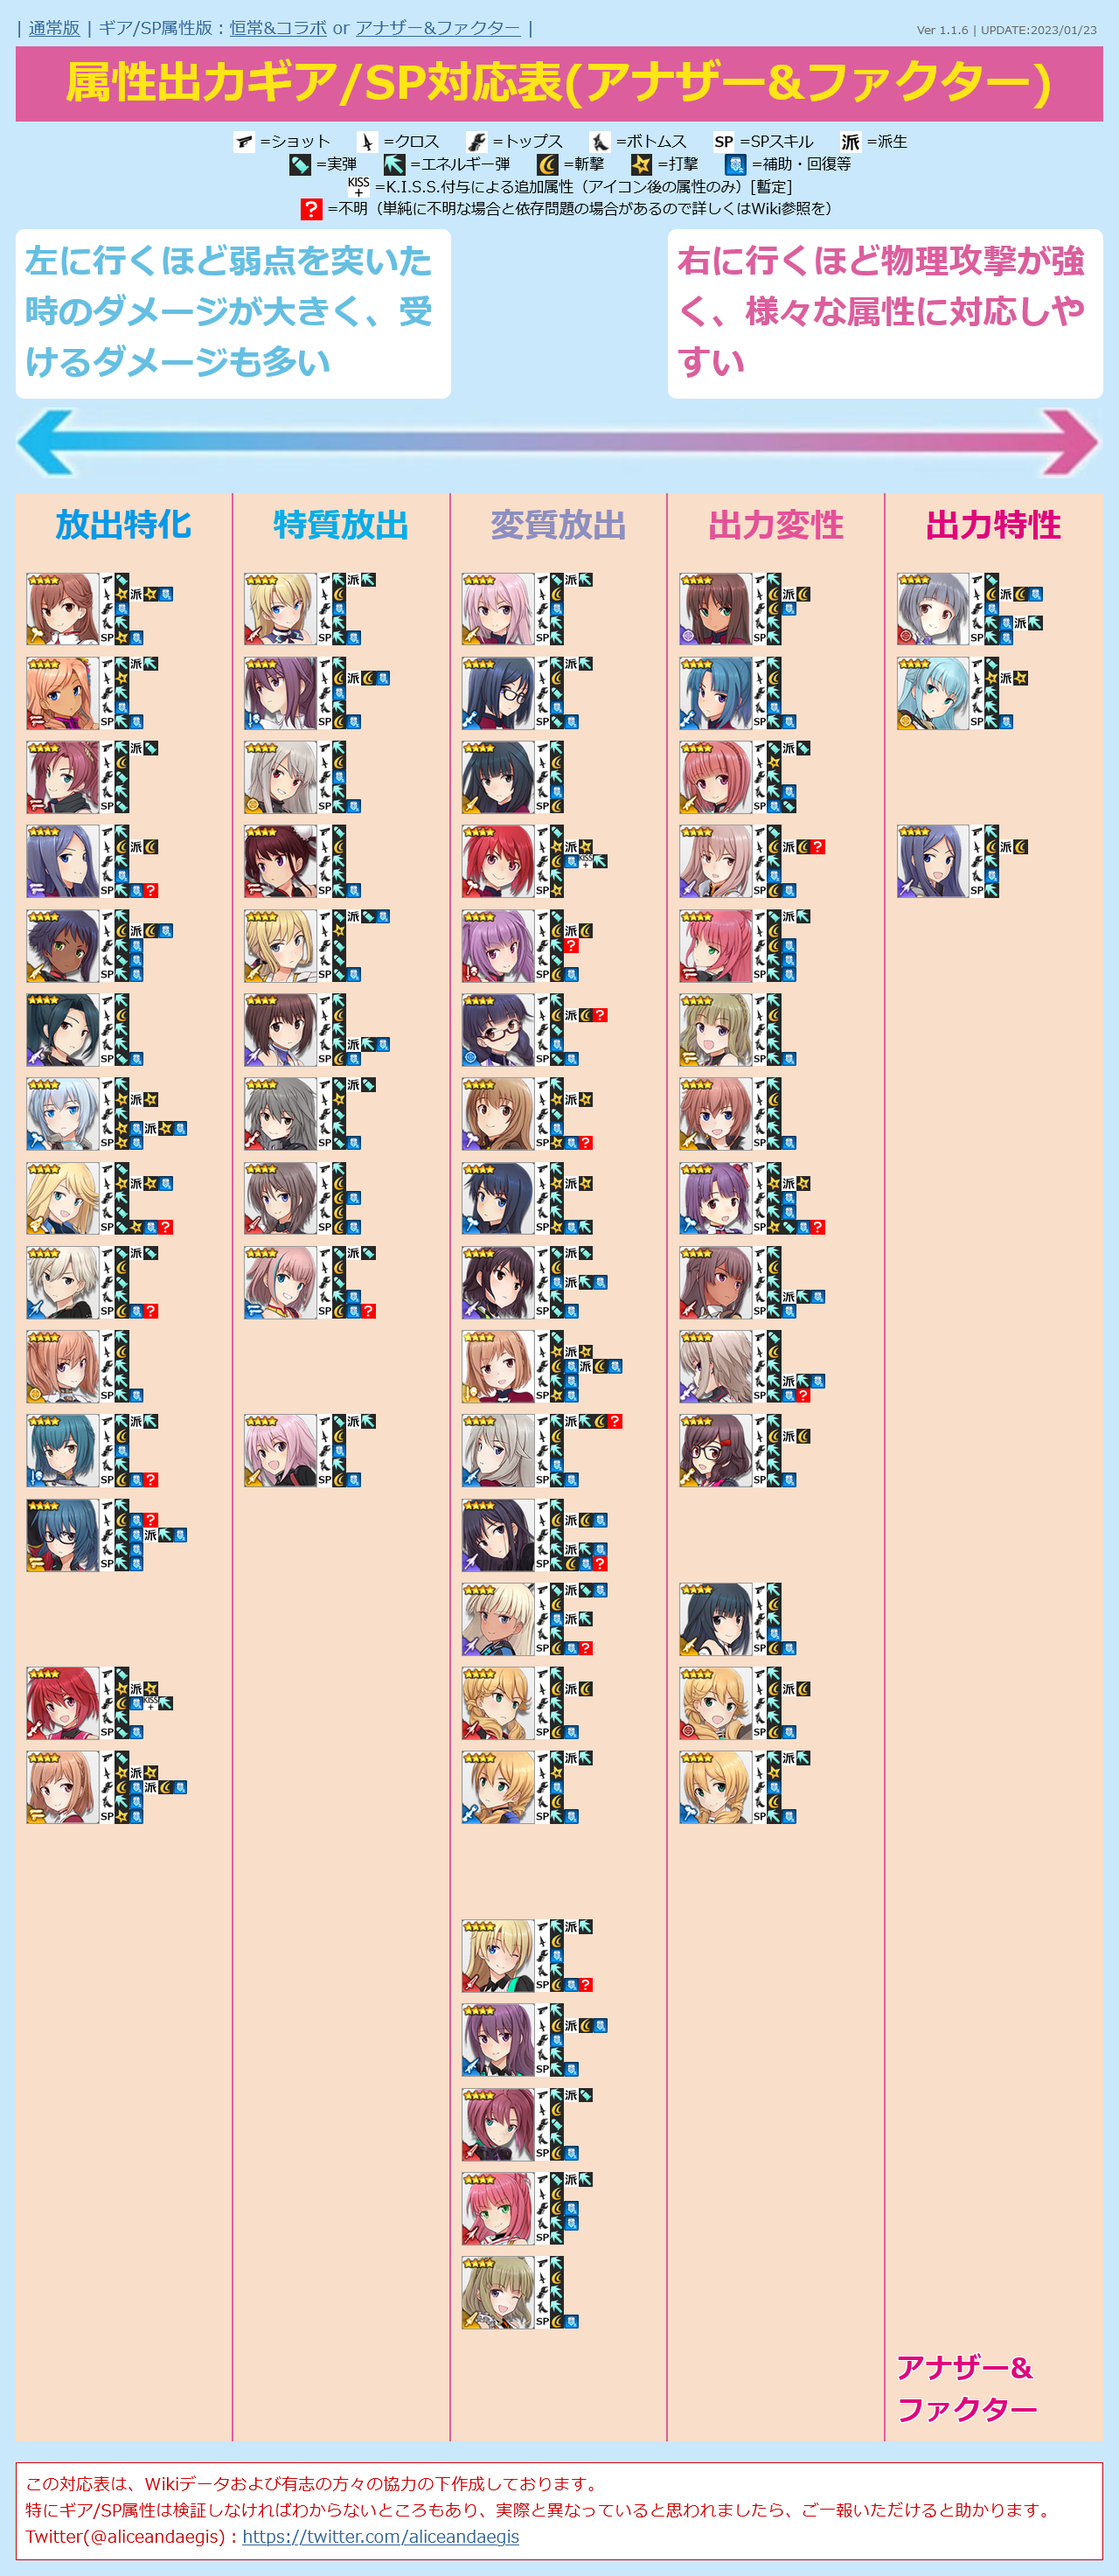
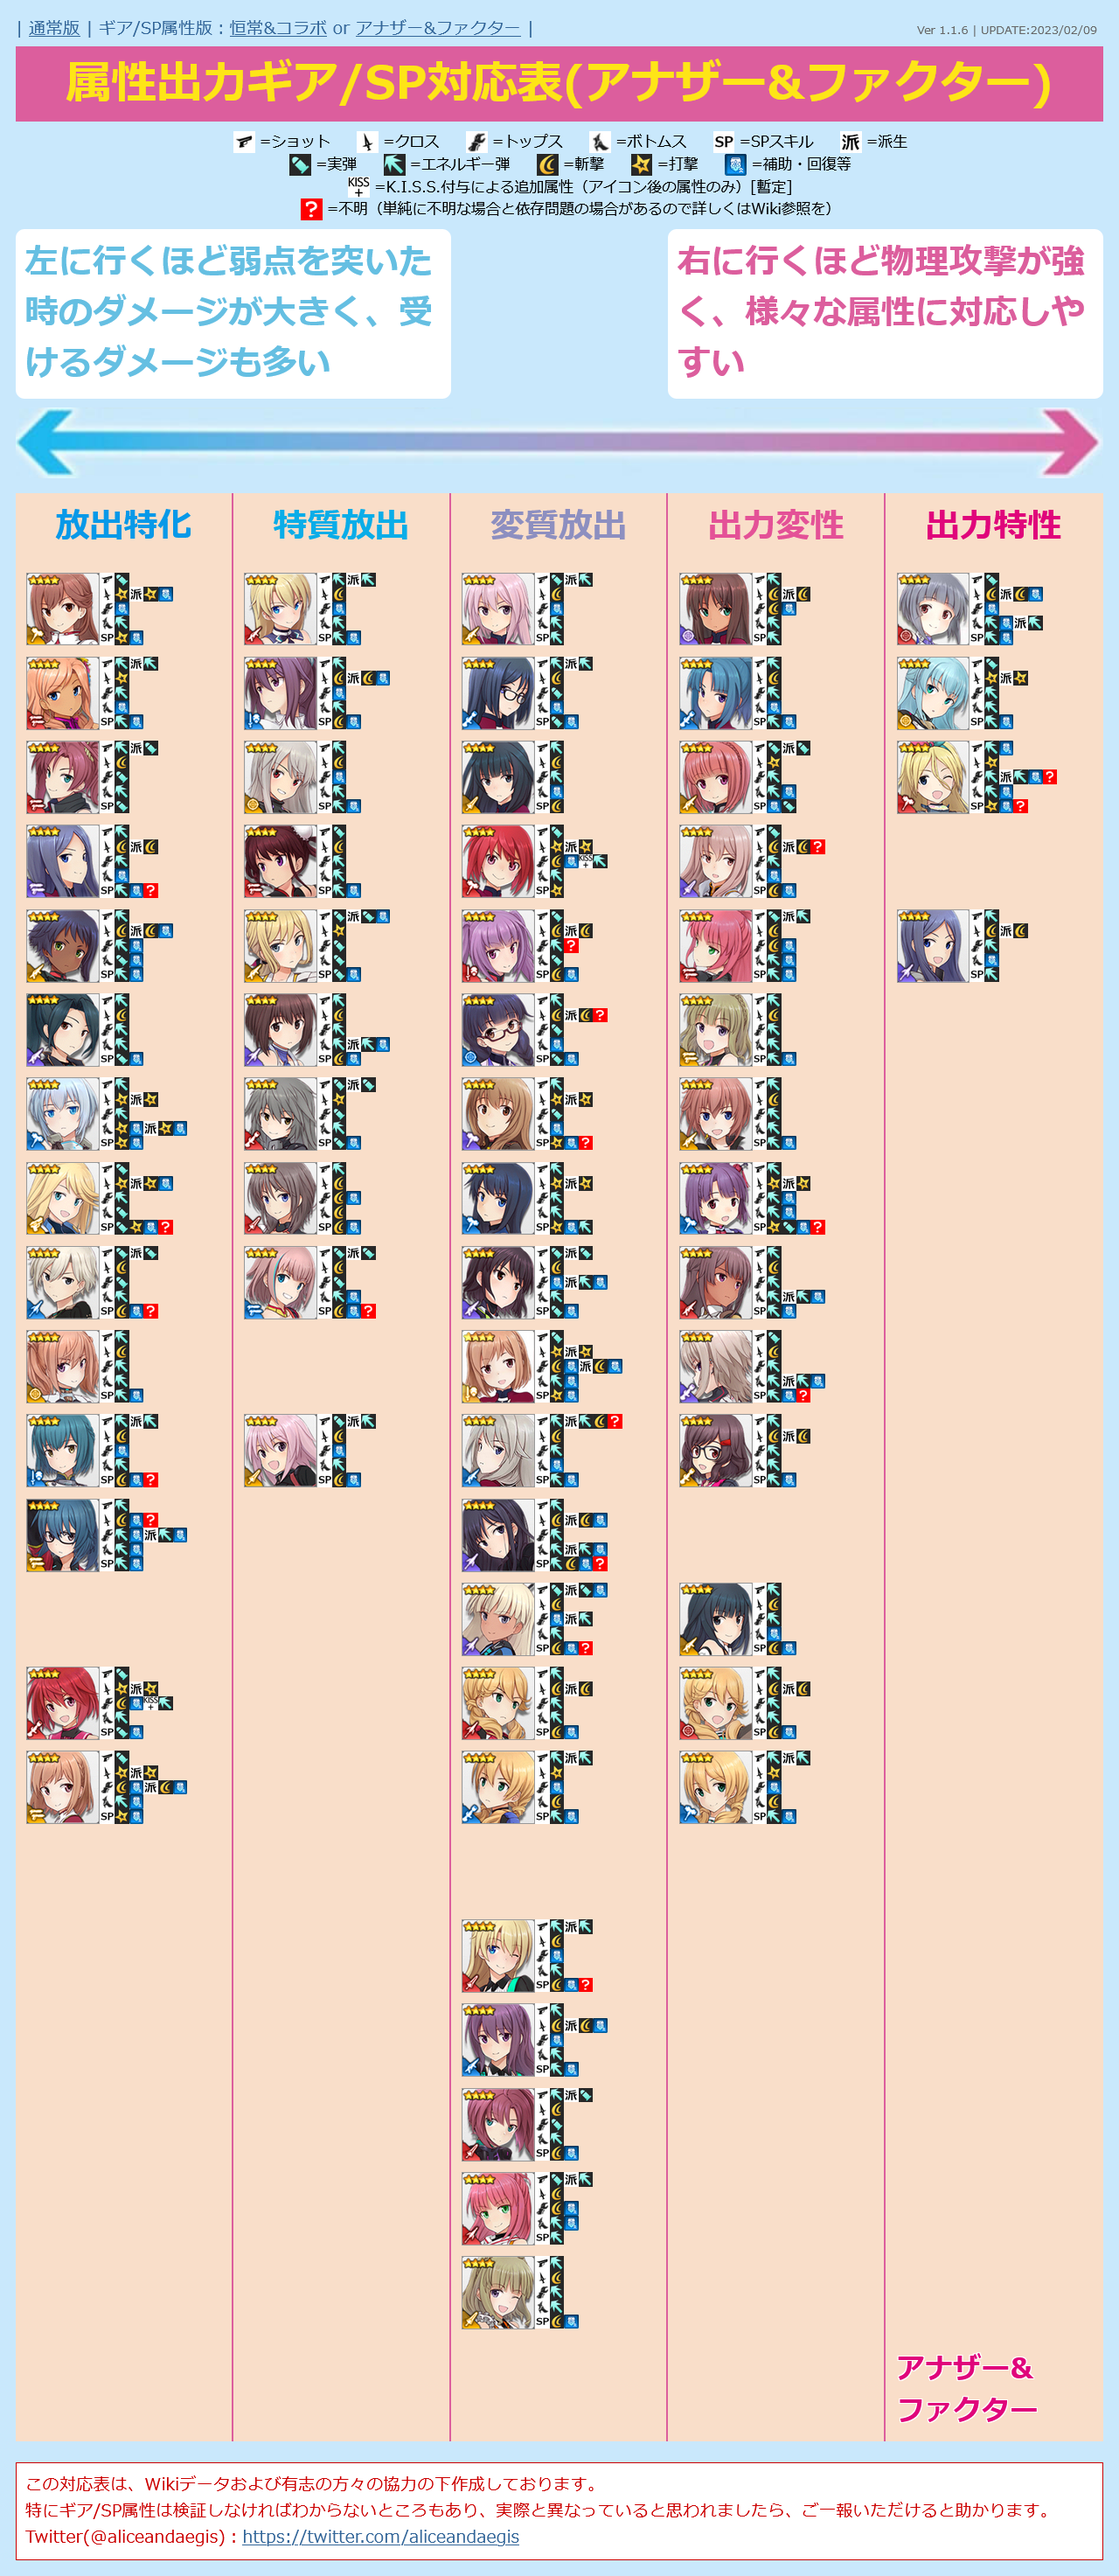
UPDATE charadata
・アナザー　宮南 ひかり / 爛漫を追加

Changed region(s): [[0.7812, 0.2811, 0.9375, 0.406]]

diff --git a/alice.html b/alice.html
@@ -12,7 +12,7 @@
   <script>
 
 /* 更新情報 必要に応じて書き換えてください */
-  var version = "Ver 1.1.6 | UPDATE:2023/01/23";
+  var version = "Ver 1.1.6 | UPDATE:2023/02/09";
 
 
 /*
@@ -1607,6 +1607,20 @@
       "category": ""
     },
     {
+      "id": "50",
+      "type": "5",
+      "src": "another-hikari.png",
+      "name": "宮南 ひかり / 爛漫",
+      "equip1": "25",
+      "equip2": "4",
+      "equip3": "2/25?",
+      "equip4": "25",
+      "sp": "45?",
+      "attr": "3",
+      "link": "https://wikiwiki.jp/alicegear/%E5%AE%AE%E5%8D%97%E3%81%B2%E3%81%8B%E3%82%8A%E7%88%9B%E6%BC%AB",
+      "category": "10"
+    },
+    {
       "id": "51",
       "type": "2",
       "src": "normal-garyu.png",
@@ -1725,9 +1739,9 @@
       "name": "鳳 加純",
       "equip1": "2",
       "equip2": "3",
-      "equip3": "?",
+      "equip3": "25",
       "equip4": "5",
-      "sp": "?",
+      "sp": "3",
       "attr": "3",
       "link": "https://wikiwiki.jp/alicegear/%E9%B3%B3%E5%8A%A0%E7%B4%94",
       "category": ""
@@ -1740,7 +1754,7 @@
       "equip1": "2",
       "equip2": "3",
       "equip3": "2",
-      "equip4": "?",
+      "equip4": "4",
       "sp": "3?",
       "attr": "2",
       "link": "https://wikiwiki.jp/alicegear/%E5%B7%BD%E7%AB%9C%E5%AD%90",
